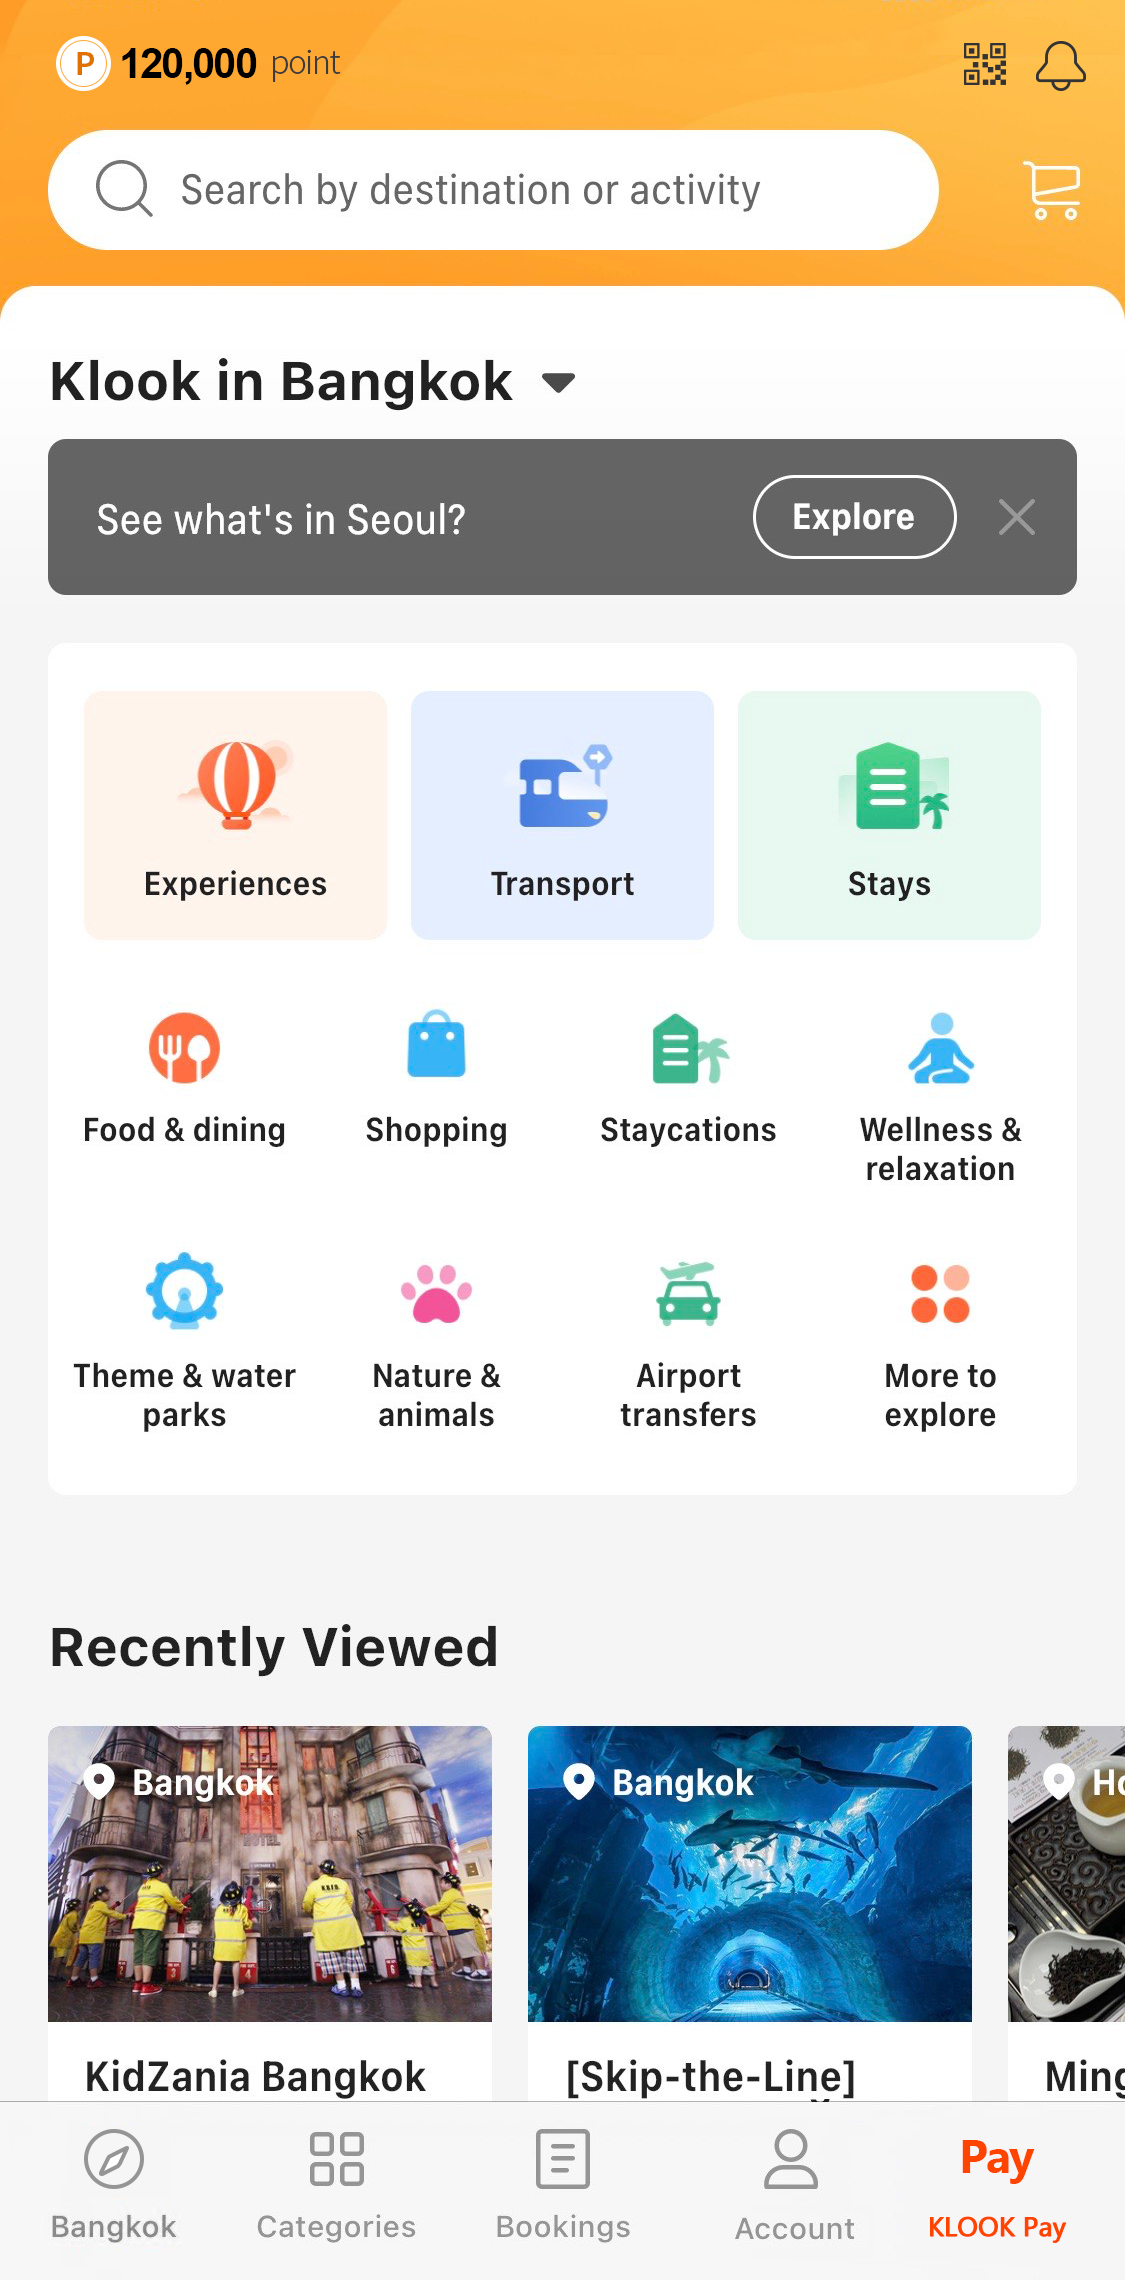
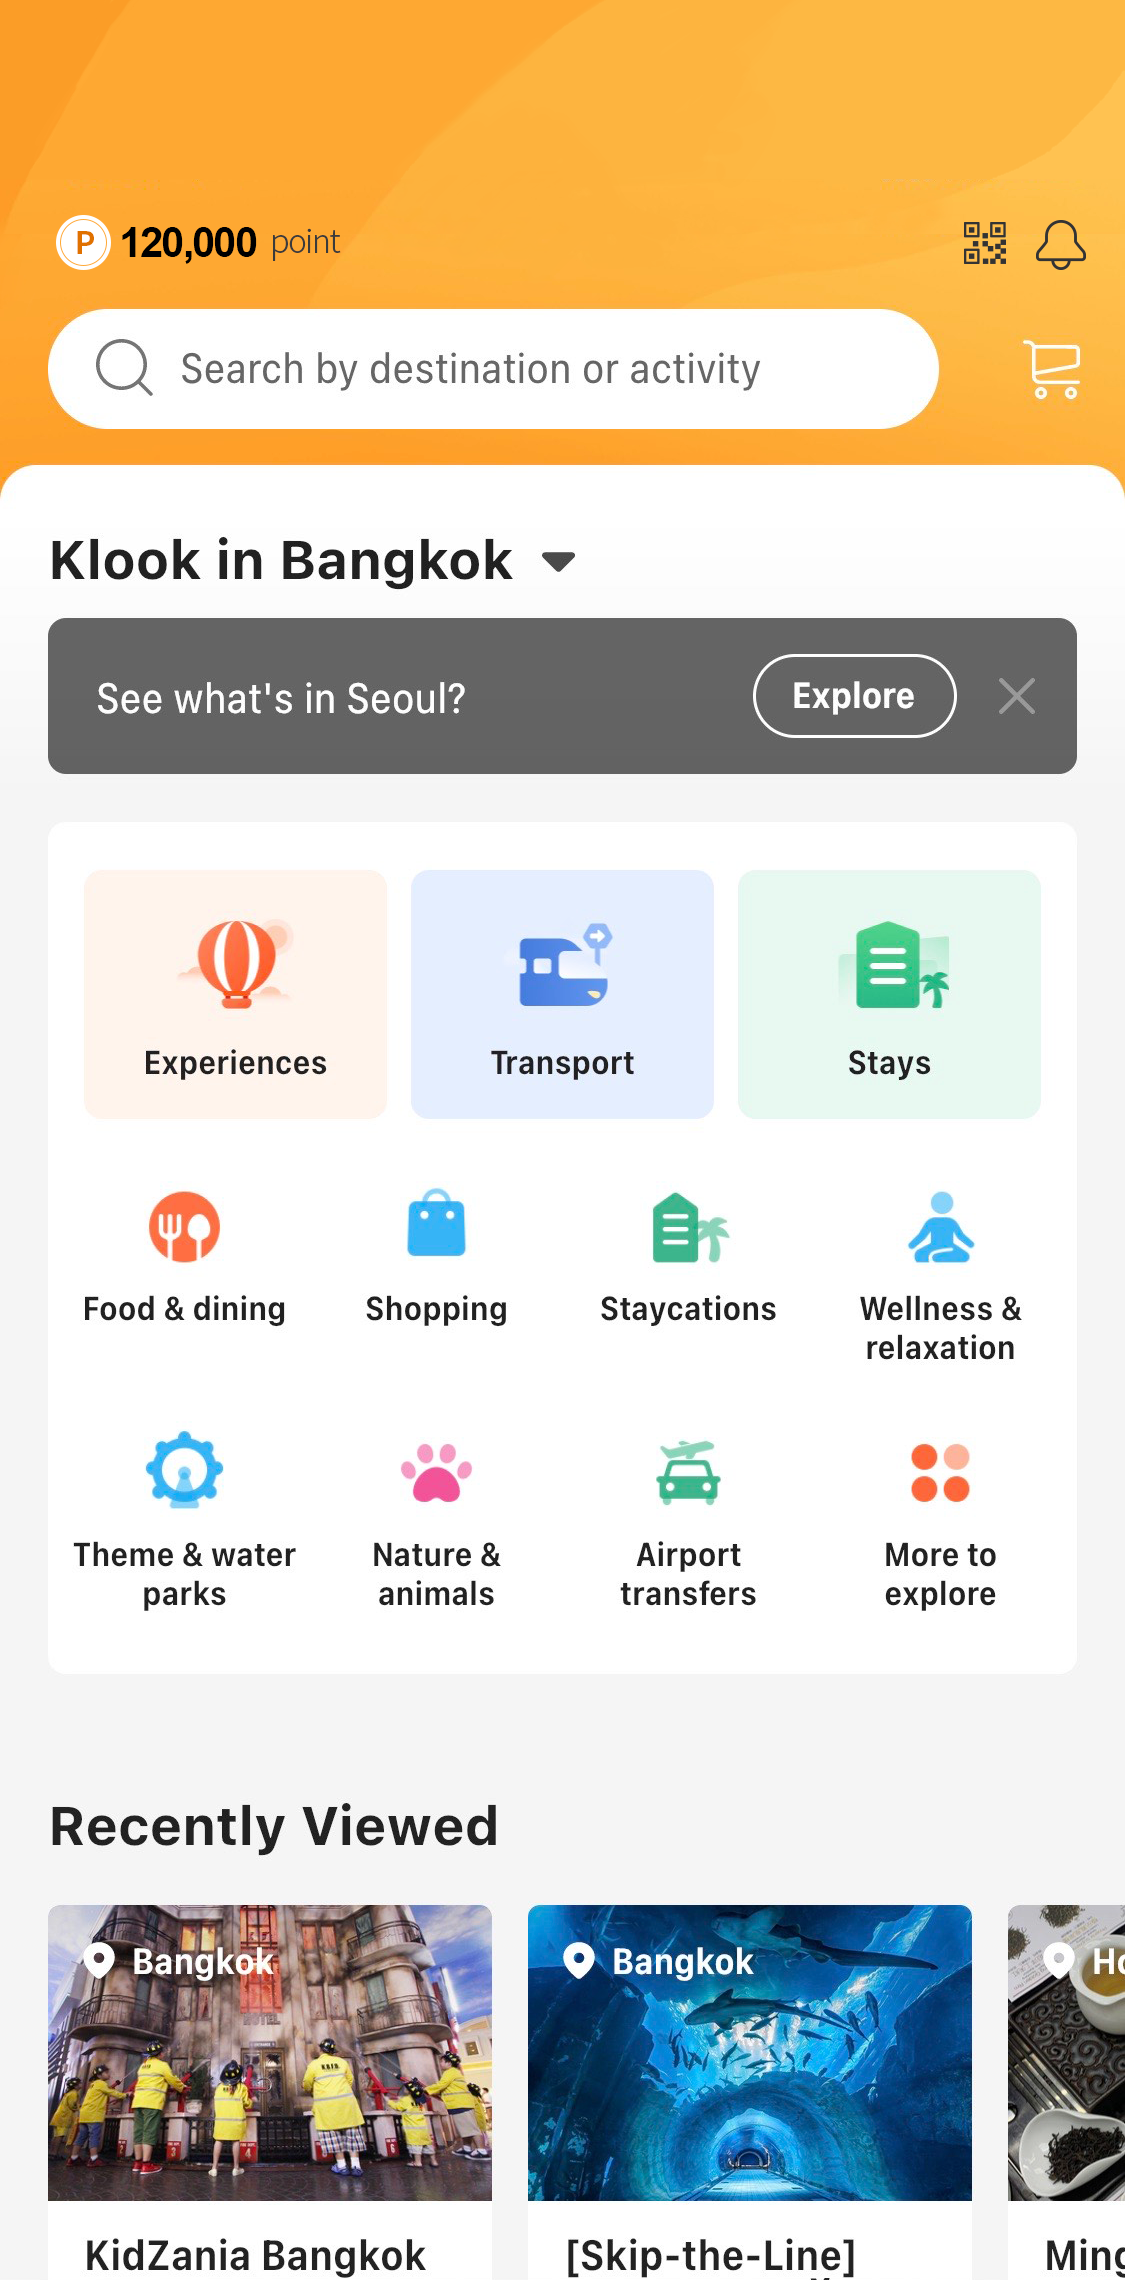
main 이미지 변경

diff --git a/src/app/initial-auth/klookmain/klookmain.component.html b/src/app/initial-auth/klookmain/klookmain.component.html
@@ -1,9 +1,8 @@
-<AbsoluteLayout rows="auto, *">
-    <Image row="0" src="~/images/Main1.png"></Image>
-    <Image top="40" src="~/images/Main2.png"></Image>
+<AbsoluteLayout>
+    <Image src="~/images/new_main.png" stretch="aspectFill" translateY="-32"></Image>
 </AbsoluteLayout>
 <GridLayout rows="*, auto">  
-    <Image row="1" src="~/images/Main3.png"></Image>
+    <Image row="1" src="~/images/main_bottom.png"></Image>
     <GridLayout row="1" rows="*, 48" columns="*, 64">
         <Label row="1" col="1" text=" " (tap)="onTapKlookPay()"></Label>
     </GridLayout>  
